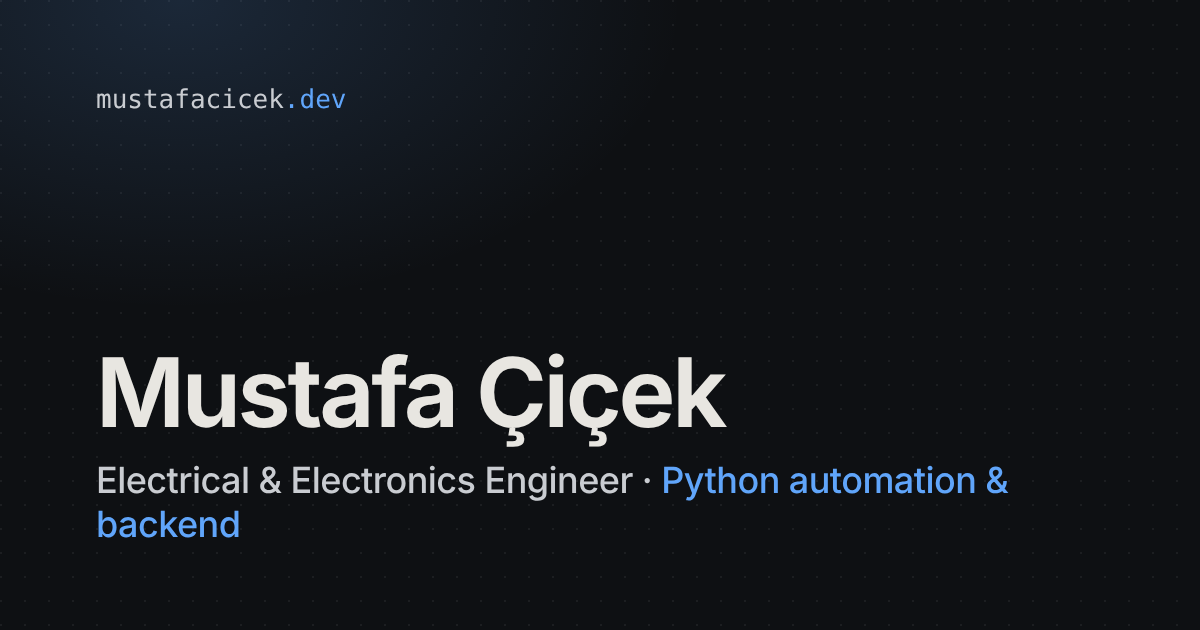
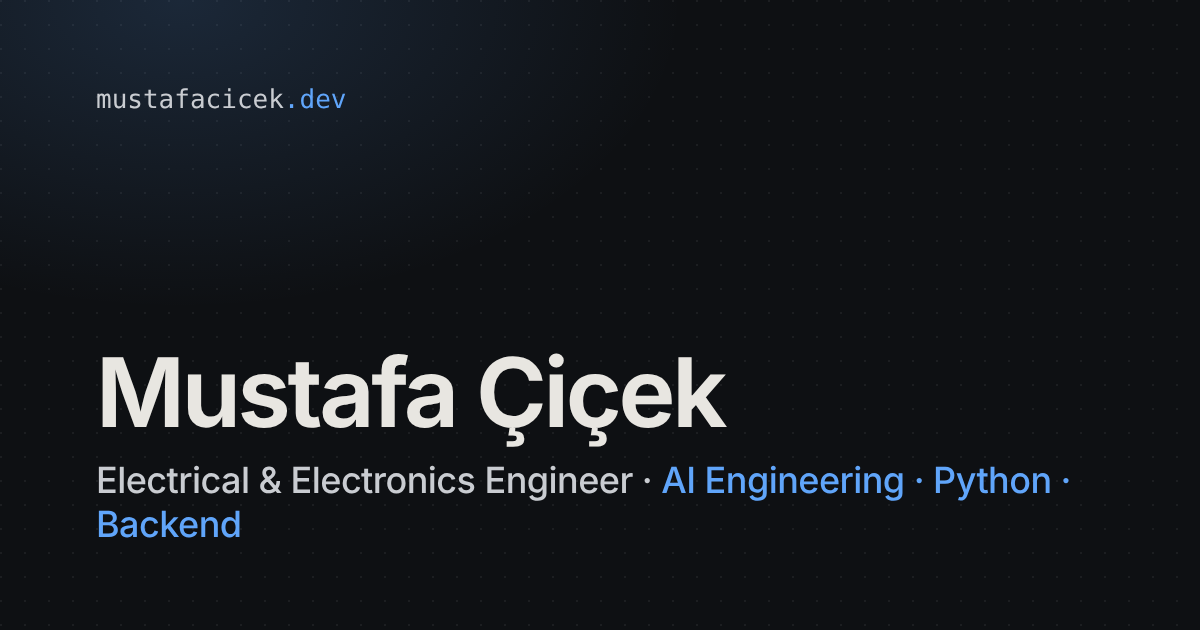
New subtitle, intro, work mode, PR link

Changed region(s): [[0.555, 0.7238, 0.8942, 0.8143], [0.0617, 0.8143, 0.2158, 0.8746]]

diff --git a/index.html b/index.html
@@ -4,14 +4,14 @@
 <meta charset="utf-8">
 <meta name="viewport" content="width=device-width, initial-scale=1">
 <title>Mustafa Çiçek — Electrical &amp; Electronics Engineer</title>
-<meta name="description" content="Mustafa Çiçek — electrical &amp; electronics engineer focused on Python automation, data collection and backend development.">
+<meta name="description" content="Mustafa Çiçek — electrical &amp; electronics engineer · AI engineering, Python and backend.">
 <meta name="color-scheme" content="dark light">
 <link rel="icon" href="favicon.svg" type="image/svg+xml">
 <link rel="canonical" href="https://mustafacicek.dev/">
 <meta property="og:type" content="website">
 <meta property="og:url" content="https://mustafacicek.dev/">
 <meta property="og:title" content="Mustafa Çiçek — Electrical &amp; Electronics Engineer">
-<meta property="og:description" content="Python automation, data collection and backend development. Apps for macOS, Android and the browser; open-source contributions.">
+<meta property="og:description" content="AI automation and integrations, Python tools and backend services; apps for macOS, Android and the browser; open-source contributions.">
 <meta property="og:image" content="https://mustafacicek.dev/og.png">
 <meta property="og:image:width" content="1200">
 <meta property="og:image:height" content="630">
@@ -189,14 +189,14 @@ footer{margin-top:auto;display:flex;justify-content:space-between;flex-wrap:wrap
       <div class="who">
         <div class="status rise" style="--i:0"><span data-l="en">Istanbul</span><span data-l="tr">İstanbul</span></div>
         <h1 class="rise" style="--i:1">Mustafa Çiçek</h1>
-        <p class="role rise" style="--i:2"><span data-l="en">Electrical &amp; Electronics Engineer · <b>Python automation &amp; backend</b></span><span data-l="tr">Elektrik-Elektronik Mühendisi · <b>Python otomasyonu ve backend</b></span></p>
-        <p class="lead rise" style="--i:3"><span data-l="en">I build Python tools for automation and data collection, and small, fast apps for macOS, Android and the browser.</span><span data-l="tr">Otomasyon ve veri toplama için Python araçları; macOS, Android ve tarayıcı için küçük, hızlı uygulamalar geliştiriyorum.</span></p>
+        <p class="role rise" style="--i:2"><span data-l="en">Electrical &amp; Electronics Engineer · <b>AI Engineering · Python · Backend</b></span><span data-l="tr">Elektrik-Elektronik Mühendisi · <b>AI Engineering · Python · Backend</b></span></p>
+        <p class="lead rise" style="--i:3"><span data-l="en">I build AI automation and integrations, Python tools and backend services, plus small, fast apps for macOS, Android and the browser.</span><span data-l="tr">AI otomasyonu ve entegrasyonu, Python araçları ve backend servisleri geliştiriyorum. Ayrıca macOS, Android ve tarayıcı için küçük, hızlı uygulamalar yazıyorum.</span></p>
       </div>
       <dl class="rise" style="--i:4">
         <div><dt><span data-l="en">EDUCATION</span><span data-l="tr">EĞİTİM</span></dt><dd><span data-l="en">Boğaziçi University, EEE</span><span data-l="tr">Boğaziçi Üniversitesi, EEM</span></dd></div>
-        <div><dt><span data-l="en">BUILDS FOR</span><span data-l="tr">PLATFORMLAR</span></dt><dd>macOS · Android · Chrome</dd></div>
+        <div><dt><span data-l="en">WORK MODE</span><span data-l="tr">ÇALIŞMA ŞEKLİ</span></dt><dd><span data-l="en">On-site · Hybrid · Remote</span><span data-l="tr">Ofis · Hibrit · Uzaktan</span></dd></div>
         <div><dt><span data-l="en">BUILT</span><span data-l="tr">GELİŞTİRDİKLERİM</span></dt><dd><span data-l="en">17 apps &amp; extensions</span><span data-l="tr">17 uygulama ve eklenti</span></dd></div>
-        <div><dt><span data-l="en">OPEN SOURCE</span><span data-l="tr">AÇIK KAYNAK</span></dt><dd><a class="ddlink" href="https://github.com/search?q=author%3Amustafacicek-eee+is%3Apr+is%3Amerged&amp;type=pullrequests"><span data-l="en">77 merged PRs incl. PyPSA, Spec Kit, Homebrew</span><span data-l="tr">PyPSA, Spec Kit ve Homebrew dahil 77 birleştirilmiş PR</span> ↗</a></dd></div>
+        <div><dt><span data-l="en">OPEN SOURCE</span><span data-l="tr">AÇIK KAYNAK</span></dt><dd><a class="ddlink" href="https://github.com/search?q=author%3Amustafacicek-eee+is%3Apr+is%3Amerged+-user%3Amustafacicek-eee&amp;type=pullrequests" target="_blank" rel="noopener"><span data-l="en">77 merged PRs incl. Spec Kit, PyPSA, Homebrew</span><span data-l="tr">Spec Kit, PyPSA ve Homebrew dahil 77 birleştirilmiş PR</span> ↗</a></dd></div>
       </dl>
     </section>
 
